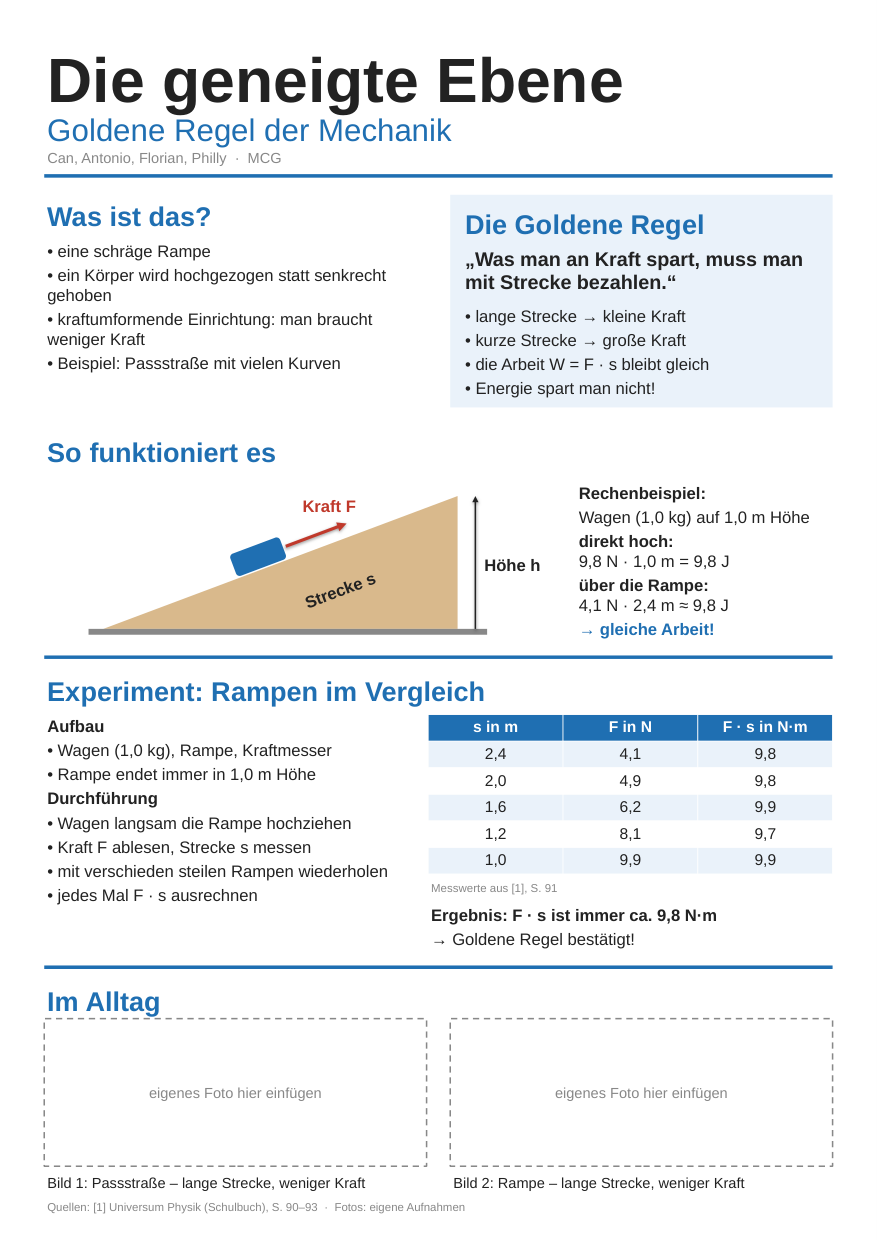
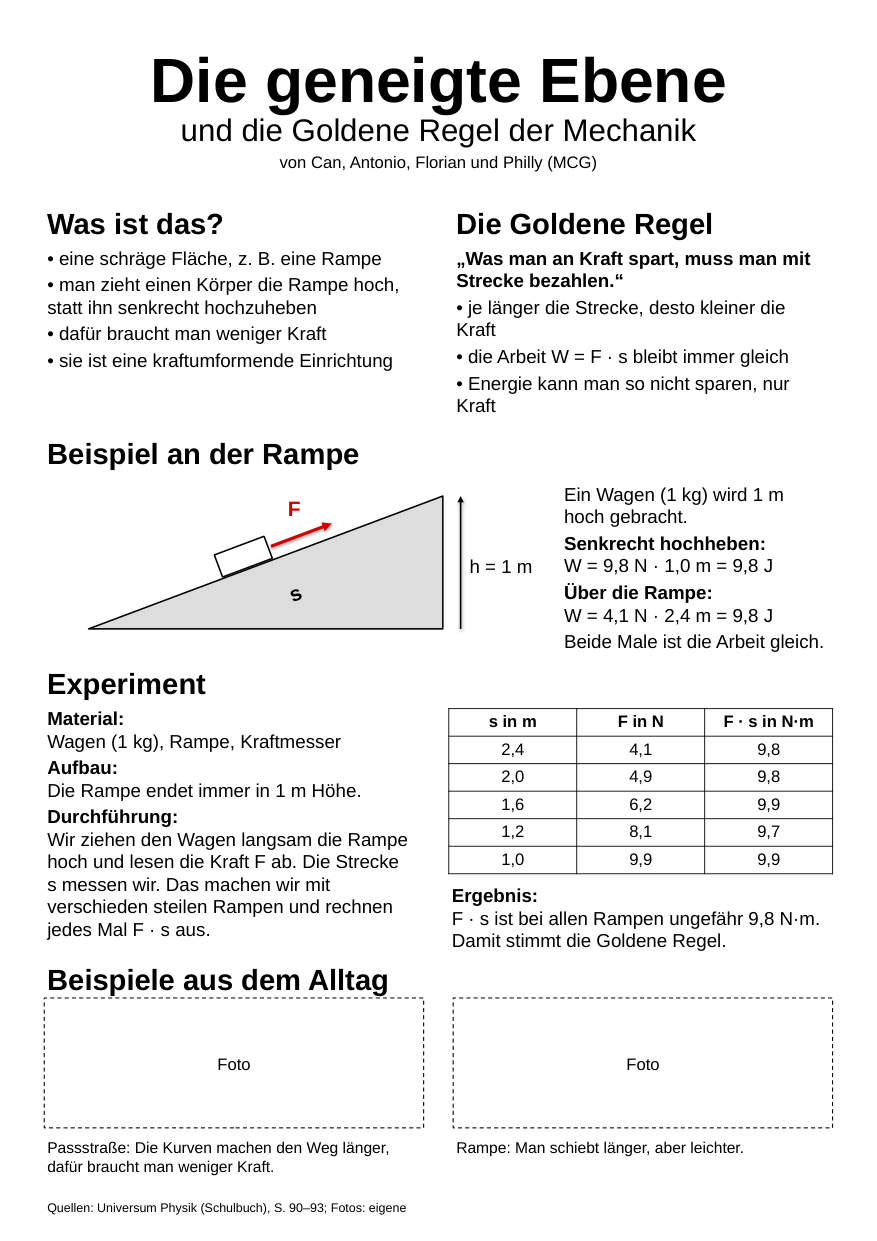
Poster: plainer look (black text, simple table, no divider lines)
Claude-Session: https://claude.ai/code/session_01Y78JcsHaGmWfortdHv7ra9

diff --git a/poster/make_poster.py b/poster/make_poster.py
@@ -10,12 +10,10 @@ from pptx.enum.text import MSO_ANCHOR, PP_ALIGN
 from pptx.oxml.ns import qn
 from pptx.util import Mm, Pt
 
-TEXT = RGBColor(0x22, 0x22, 0x22)
-BLUE = RGBColor(0x1F, 0x6F, 0xB2)
-LIGHT = RGBColor(0xEA, 0xF2, 0xFA)
-GREY = RGBColor(0x88, 0x88, 0x88)
-RED = RGBColor(0xC0, 0x39, 0x2B)
+BLACK = RGBColor(0, 0, 0)
 WHITE = RGBColor(0xFF, 0xFF, 0xFF)
+RED = RGBColor(0xD0, 0x00, 0x00)
+RAMP = RGBColor(0xDD, 0xDD, 0xDD)
 FONT = "Arial"
 
 prs = Presentation()
@@ -23,13 +21,12 @@ prs.slide_width, prs.slide_height = Mm(297), Mm(420)
 slide = prs.slides.add_slide(prs.slide_layouts[6])
 
 
-def text(x, y, w, h, paras, size=16, color=TEXT, bold=False, align=PP_ALIGN.LEFT,
-         anchor=MSO_ANCHOR.TOP):
+def text(x, y, w, h, paras, size=18, color=BLACK, bold=False, align=PP_ALIGN.LEFT):
     """paras: Liste von Strings oder (String, dict) mit Abweichungen."""
     box = slide.shapes.add_textbox(Mm(x), Mm(y), Mm(w), Mm(h))
     tf = box.text_frame
     tf.word_wrap = True
-    tf.vertical_anchor = anchor
+    tf.vertical_anchor = MSO_ANCHOR.TOP
     tf.margin_left = tf.margin_right = Mm(1)
     for i, p in enumerate(paras):
         s, opt = (p, {}) if isinstance(p, str) else p
@@ -45,7 +42,7 @@ def text(x, y, w, h, paras, size=16, color=TEXT, bold=False, align=PP_ALIGN.LEFT
     return box
 
 
-def rect(x, y, w, h, fill=None, line=None, shape=MSO_SHAPE.RECTANGLE, dash=False):
+def rect(x, y, w, h, fill=None, line=None, shape=MSO_SHAPE.RECTANGLE, dash=False, lw=1.5):
     s = slide.shapes.add_shape(shape, Mm(x), Mm(y), Mm(w), Mm(h))
     if fill is None:
         s.fill.background()
@@ -56,7 +53,7 @@ def rect(x, y, w, h, fill=None, line=None, shape=MSO_SHAPE.RECTANGLE, dash=False
         s.line.fill.background()
     else:
         s.line.color.rgb = line
-        s.line.width = Pt(1.5)
+        s.line.width = Pt(lw)
         if dash:
             s.line.dash_style = MSO_LINE_DASH_STYLE.DASH
     style = s._element.find(qn("p:style"))
@@ -72,57 +69,58 @@ def arrow(x1, y1, x2, y2, color, width=3):
     ln = c.line._get_or_add_ln()
     tail = etree.SubElement(ln, qn("a:tailEnd"))
     tail.set("type", "triangle")
-    tail.set("w", "med")
-    tail.set("len", "med")
     return c
 
 
 def heading(x, y, w, s):
-    text(x, y, w, 12, [s], size=26, bold=True, color=BLUE)
+    text(x, y, w, 12, [s], size=28, bold=True)
+
+
+def cell_border(cell):
+    tcPr = cell._tc.get_or_add_tcPr()
+    for side in ("a:lnL", "a:lnR", "a:lnT", "a:lnB"):
+        ln = etree.SubElement(tcPr, qn(side), w="12700")
+        fill = etree.SubElement(ln, qn("a:solidFill"))
+        etree.SubElement(fill, qn("a:srgbClr"), val="000000")
 
 
 M = 15          # Rand
 W = 297 - 2 * M  # nutzbare Breite
-COL = (W - 8) / 2
+COL = (W - 10) / 2
 
 # ---------- Kopf ----------
-text(M, 12, W, 25, ["Die geneigte Ebene"], size=60, bold=True)
-text(M, 36, W, 12, ["Goldene Regel der Mechanik"], size=30, color=BLUE)
-text(M, 49, W, 8, ["Can, Antonio, Florian, Philly  ·  MCG"], size=14, color=GREY)
-rect(M, 59, W, 1.2, fill=BLUE)
+text(M, 12, W, 25, ["Die geneigte Ebene"], size=60, bold=True, align=PP_ALIGN.CENTER)
+text(M, 36, W, 12, ["und die Goldene Regel der Mechanik"], size=30, align=PP_ALIGN.CENTER)
+text(M, 50, W, 8, ["von Can, Antonio, Florian und Philly (MCG)"], size=16,
+     align=PP_ALIGN.CENTER)
 
 # ---------- Was ist eine geneigte Ebene? ----------
-y = 66
+y = 68
 heading(M, y, COL, "Was ist das?")
-text(M, y + 14, COL, 50, [
-    "• eine schräge Rampe",
-    "• ein Körper wird hochgezogen statt senkrecht gehoben",
-    "• kraftumformende Einrichtung: man braucht weniger Kraft",
-    "• Beispiel: Passstraße mit vielen Kurven",
+text(M, y + 14, COL, 60, [
+    "• eine schräge Fläche, z. B. eine Rampe",
+    "• man zieht einen Körper die Rampe hoch, statt ihn senkrecht hochzuheben",
+    "• dafür braucht man weniger Kraft",
+    "• sie ist eine kraftumformende Einrichtung",
 ])
 
 # ---------- Goldene Regel ----------
-x2 = M + COL + 8
-rect(x2, y, COL, 72, fill=LIGHT)
-heading(x2 + 4, y + 3, COL - 8, "Die Goldene Regel")
-text(x2 + 4, y + 16, COL - 8, 18,
-     ["„Was man an Kraft spart, muss man mit Strecke bezahlen.“"],
-     size=19, bold=True)
-text(x2 + 4, y + 36, COL - 8, 36, [
-    "• lange Strecke → kleine Kraft",
-    "• kurze Strecke → große Kraft",
-    "• die Arbeit W = F · s bleibt gleich",
-    "• Energie spart man nicht!",
+x2 = M + COL + 10
+heading(x2, y, COL, "Die Goldene Regel")
+text(x2, y + 14, COL, 60, [
+    ("„Was man an Kraft spart, muss man mit Strecke bezahlen.“", {"bold": True}),
+    "• je länger die Strecke, desto kleiner die Kraft",
+    "• die Arbeit W = F · s bleibt immer gleich",
+    "• Energie kann man so nicht sparen, nur Kraft",
 ])
 
 # ---------- Skizze Rampe ----------
 y = 146
-heading(M, y, W, "So funktioniert es")
-tx, ty, tw, th = M + 20, y + 22, 120, 45        # Dreieck (Rampe)
-ramp = rect(tx, ty, tw, th, fill=RGBColor(0xD9, 0xB9, 0x8C), shape=MSO_SHAPE.RIGHT_TRIANGLE)
+heading(M, y, W, "Beispiel an der Rampe")
+tx, ty, tw, th = M + 15, y + 22, 120, 45        # Dreieck (Rampe)
+ramp = rect(tx, ty, tw, th, fill=RAMP, line=BLACK, shape=MSO_SHAPE.RIGHT_TRIANGLE)
 # Dreieck spiegeln, damit die Rampe nach rechts ansteigt
 ramp._element.spPr.find(qn("a:xfrm")).set("flipH", "1")
-rect(tx - 5, ty + th, tw + 15, 2, fill=GREY)  # Boden
 
 ang = math.degrees(math.atan(th / tw))
 # Wagen auf der Rampe (bei 45 % der Strecke)
@@ -132,51 +130,50 @@ cw, ch = 18, 8
 off = ch / 2 + 0.5
 px = cx - math.sin(math.radians(ang)) * off
 py = cy - math.cos(math.radians(ang)) * off
-car = rect(px - cw / 2, py - ch / 2, cw, ch, fill=BLUE, shape=MSO_SHAPE.ROUNDED_RECTANGLE)
+car = rect(px - cw / 2, py - ch / 2, cw, ch, fill=WHITE, line=BLACK)
 car.rotation = -ang
 # Kraftpfeil entlang der Rampe
 d = 32
 arrow(px + math.cos(math.radians(ang)) * 10, py - math.sin(math.radians(ang)) * 10,
       px + math.cos(math.radians(ang)) * d, py - math.sin(math.radians(ang)) * d, RED)
-text(px + 14, py - 22, 30, 8, ["Kraft F"], size=16, bold=True, color=RED)
+text(px + 14, py - 22, 30, 8, ["F"], size=20, bold=True, color=RED)
 # Strecke s
-s_lbl = text(tx + tw * 0.55, ty + th * 0.55, 40, 8, ["Strecke s"], size=16, bold=True)
+s_lbl = text(tx + tw * 0.55, ty + th * 0.55, 20, 8, ["s"], size=20, bold=True)
 s_lbl.rotation = -ang
 # Hoehe h
-arrow(tx + tw + 6, ty + th, tx + tw + 6, ty, TEXT, width=1.5)
-text(tx + tw + 8, ty + th / 2 - 4, 30, 8, ["Höhe h"], size=16, bold=True)
+arrow(tx + tw + 6, ty + th, tx + tw + 6, ty, BLACK, width=1.5)
+text(tx + tw + 8, ty + th / 2 - 4, 30, 8, ["h = 1 m"], size=18)
 
-# Rechenbeispiel
-text(M + 180, y + 16, W - 180, 55, [
-    ("Rechenbeispiel:", {"bold": True}),
-    "Wagen (1,0 kg) auf 1,0 m Höhe",
-    ("direkt hoch:", {"bold": True, "after": 0}),
-    "9,8 N · 1,0 m = 9,8 J",
-    ("über die Rampe:", {"bold": True, "after": 0}),
-    "4,1 N · 2,4 m ≈ 9,8 J",
-    ("→ gleiche Arbeit!", {"bold": True, "color": BLUE}),
-], size=16)
+text(M + 175, y + 16, W - 175, 60, [
+    "Ein Wagen (1 kg) wird 1 m hoch gebracht.",
+    ("Senkrecht hochheben:", {"bold": True, "after": 0}),
+    "W = 9,8 N · 1,0 m = 9,8 J",
+    ("Über die Rampe:", {"bold": True, "after": 0}),
+    "W = 4,1 N · 2,4 m = 9,8 J",
+    "Beide Male ist die Arbeit gleich.",
+])
 
 # ---------- Experiment ----------
-y = 225
-rect(M, y - 3, W, 1.2, fill=BLUE)
-heading(M, y + 2, W, "Experiment: Rampen im Vergleich")
-text(M, y + 16, 120, 80, [
-    ("Aufbau", {"bold": True}),
-    "• Wagen (1,0 kg), Rampe, Kraftmesser",
-    "• Rampe endet immer in 1,0 m Höhe",
-    ("Durchführung", {"bold": True}),
-    "• Wagen langsam die Rampe hochziehen",
-    "• Kraft F ablesen, Strecke s messen",
-    "• mit verschieden steilen Rampen wiederholen",
-    "• jedes Mal F · s ausrechnen",
+y = 224
+heading(M, y, W, "Experiment")
+text(M, y + 14, 125, 80, [
+    ("Material:", {"bold": True, "after": 0}),
+    "Wagen (1 kg), Rampe, Kraftmesser",
+    ("Aufbau:", {"bold": True, "after": 0}),
+    "Die Rampe endet immer in 1 m Höhe.",
+    ("Durchführung:", {"bold": True, "after": 0}),
+    "Wir ziehen den Wagen langsam die Rampe hoch und lesen die Kraft F ab. "
+    "Die Strecke s messen wir. Das machen wir mit verschieden steilen Rampen "
+    "und rechnen jedes Mal F · s aus.",
 ])
 
 # Messwerte-Tabelle
 rows = [("s in m", "F in N", "F · s in N·m"),
         ("2,4", "4,1", "9,8"), ("2,0", "4,9", "9,8"), ("1,6", "6,2", "9,9"),
         ("1,2", "8,1", "9,7"), ("1,0", "9,9", "9,9")]
-tbl = slide.shapes.add_table(len(rows), 3, Mm(M + 130), Mm(y + 17), Mm(W - 130), Mm(54)).table
+gf = slide.shapes.add_table(len(rows), 3, Mm(M + 137), Mm(y + 16), Mm(W - 137), Mm(54))
+tbl = gf.table
+tbl.first_row = tbl.horz_banding = False
 for r, row in enumerate(rows):
     for c, val in enumerate(row):
         cell = tbl.cell(r, c)
@@ -184,37 +181,36 @@ for r, row in enumerate(rows):
         p = cell.text_frame.paragraphs[0]
         p.alignment = PP_ALIGN.CENTER
         f = p.runs[0].font
-        f.name, f.size, f.bold = FONT, Pt(15), r == 0
-        f.color.rgb = WHITE if r == 0 else TEXT
+        f.name, f.size, f.bold = FONT, Pt(16), r == 0
+        f.color.rgb = BLACK
         cell.fill.solid()
-        cell.fill.fore_color.rgb = BLUE if r == 0 else (LIGHT if r % 2 else WHITE)
-text(M + 130, y + 72, W - 130, 6, ["Messwerte aus [1], S. 91"], size=11, color=GREY)
+        cell.fill.fore_color.rgb = WHITE
+        cell_border(cell)
 
-text(M + 130, y + 80, W - 130, 20, [
-    ("Ergebnis: F · s ist immer ca. 9,8 N·m", {"bold": True}),
-    "→ Goldene Regel bestätigt!",
-], size=16)
+text(M + 137, y + 74, W - 137, 25, [
+    ("Ergebnis:", {"bold": True, "after": 0}),
+    "F · s ist bei allen Rampen ungefähr 9,8 N·m. "
+    "Damit stimmt die Goldene Regel.",
+])
 
 # ---------- Alltag ----------
-y = 330
-rect(M, y - 3, W, 1.2, fill=BLUE)
-heading(M, y + 2, W, "Im Alltag")
+y = 324
+heading(M, y, W, "Beispiele aus dem Alltag")
 for i, cap in enumerate([
-        "Bild 1: Passstraße – lange Strecke, weniger Kraft",
-        "Bild 2: Rampe – lange Strecke, weniger Kraft"]):
-    bx = M + i * (COL + 8)
-    ph = rect(bx, y + 15, COL, 50, line=GREY, dash=True)
+        "Passstraße: Die Kurven machen den Weg länger, dafür braucht man weniger Kraft.",
+        "Rampe: Man schiebt länger, aber leichter."]):
+    bx = M + i * (COL + 10)
+    ph = rect(bx, y + 14, COL, 44, line=BLACK, dash=True, lw=1)
     tf = ph.text_frame
-    tf.text = "eigenes Foto hier einfügen"
+    tf.text = "Foto"
     run = tf.paragraphs[0].runs[0]
-    run.font.name, run.font.size, run.font.color.rgb = FONT, Pt(14), GREY
+    run.font.name, run.font.size, run.font.color.rgb = FONT, Pt(16), BLACK
     tf.paragraphs[0].alignment = PP_ALIGN.CENTER
-    text(bx, y + 66, COL, 8, [cap], size=14)
+    text(bx, y + 60, COL, 14, [cap], size=15)
 
 # ---------- Quellen ----------
 text(M, 405, W, 10, [
-    "Quellen: [1] Universum Physik (Schulbuch), S. 90–93  ·  Fotos: eigene Aufnahmen"],
-    size=11, color=GREY)
+    "Quellen: Universum Physik (Schulbuch), S. 90–93; Fotos: eigene"], size=12)
 
 prs.save("/home/user/Project/poster/Poster_Geneigte_Ebene.pptx")
 print("ok")
